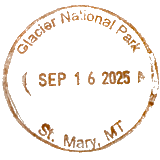
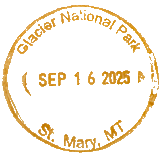
feat: normalise cancellation stamp colours across all groups
Recalibrates the rocky mountain (warm/golden, 8 stamps), green western
(17 stamps), and individual stamps (Rainier, Bryce Canyon replacement).
Updates clean_stamps.py to auto-normalise brightness on output so future
stamps match the group targets without manual adjustment.

diff --git a/scripts/clean_stamps.py b/scripts/clean_stamps.py
@@ -14,9 +14,9 @@ Cleaned 160x160 PNGs are saved alongside the originals with a _clean suffix
 for review. Once happy, rename and move to img/cancellations/.
 
 Colour treatment applied automatically by detected hue:
-  - Green / cyan (hue 80-210°): duotone to a consistent dark teal-green
+  - Green / cyan (hue 80-210°): duotone to teal-green, lightness normalised to L=52%
   - Blue (hue 210-270°):        darken while preserving hue
-  - Warm / brown / black:       remove white background only
+  - Warm / orange (other):      alpha duotone to #ED7031, normalised to L=50% S=68%
 """
 
 import colorsys
@@ -43,11 +43,14 @@ if not API_KEY:
 GREEN_DUOTONE_TARGET   = (90, 184, 154)   # #5AB89A - consistent teal-green
 GREEN_DUOTONE_BRIGHT   = 0.85             # luminance multiplier before tint
 GREEN_DUOTONE_MIX      = 0.50             # how strongly the target colour is applied
+GREEN_TARGET_L         = 0.52             # target median lightness for green stamps
 BLUE_BRIGHTNESS        = 0.60             # multiplier for blue stamps
 WHITE_BG_FUZZ          = 0.20             # fuzz threshold for background removal
 ORANGE_DUOTONE_TARGET  = (237, 112, 49)   # #ED7031 - NPS orange for warm-ink stamps
 ORANGE_INK_FLOOR       = 0.06             # ink fraction below which pixel is transparent
 ORANGE_INK_RAMP        = 0.16             # ramp width: full opacity at floor + ramp
+WARM_TARGET_L          = 0.50             # target median lightness for warm stamps
+WARM_TARGET_S          = 0.68             # target median saturation for warm stamps
 # ─────────────────────────────────────────────────────────────────────────────
 
 PROMPT = (
@@ -161,6 +164,35 @@ def apply_warm_duotone(img: Image.Image) -> Image.Image:
     return result
 
 
+def normalize_lightness(img: Image.Image, target_l: float, target_s: float = None) -> Image.Image:
+    """Scale median lightness (and optionally saturation) to target values."""
+    rgba = img.convert("RGBA")
+    data = list(rgba.getdata())
+    ls_vals = sorted(l for r,g,b,a in data if a > 200
+                     for _,l,_ in [colorsys.rgb_to_hls(r/255,g/255,b/255)])
+    if not ls_vals:
+        return img
+    scale_l = target_l / ls_vals[len(ls_vals) // 2]
+    scale_s = 1.0
+    if target_s is not None:
+        ss_vals = sorted(s for r,g,b,a in data if a > 200
+                         for _,_,s in [colorsys.rgb_to_hls(r/255,g/255,b/255)])
+        scale_s = target_s / ss_vals[len(ss_vals) // 2] if ss_vals[len(ss_vals) // 2] > 0 else 1.0
+    pixels = []
+    for r, g, b, a in data:
+        if a < 10:
+            pixels.append((0, 0, 0, 0))
+            continue
+        h, l, s = colorsys.rgb_to_hls(r / 255, g / 255, b / 255)
+        l = min(1.0, l * scale_l)
+        s = min(1.0, s * scale_s)
+        rn, gn, bn = colorsys.hls_to_rgb(h, l, s)
+        pixels.append((int(rn * 255), int(gn * 255), int(bn * 255), a))
+    result = Image.new("RGBA", rgba.size)
+    result.putdata(pixels)
+    return result
+
+
 def colour_label(hue: float) -> str:
     if 80 <= hue <= 210:
         return "green/cyan → duotone"
@@ -218,6 +250,7 @@ for image_path in images:
     if 80 <= hue <= 210:
         img = remove_white_bg(img)
         img = apply_green_duotone(img)
+        img = normalize_lightness(img, GREEN_TARGET_L)
     elif 210 < hue <= 270:
         img = remove_white_bg(img)
         img = normalize_blue(img)
@@ -226,6 +259,7 @@ for image_path in images:
         # Skipping remove_white_bg here is intentional - fuzz removal maps light
         # ink strokes towards white before thresholding, destroying thin text detail.
         img = apply_warm_duotone(img)
+        img = normalize_lightness(img, WARM_TARGET_L, WARM_TARGET_S)
 
     output_path = scripts_dir / f"{image_path.stem}_clean.png"
     img.save(output_path, "PNG")
